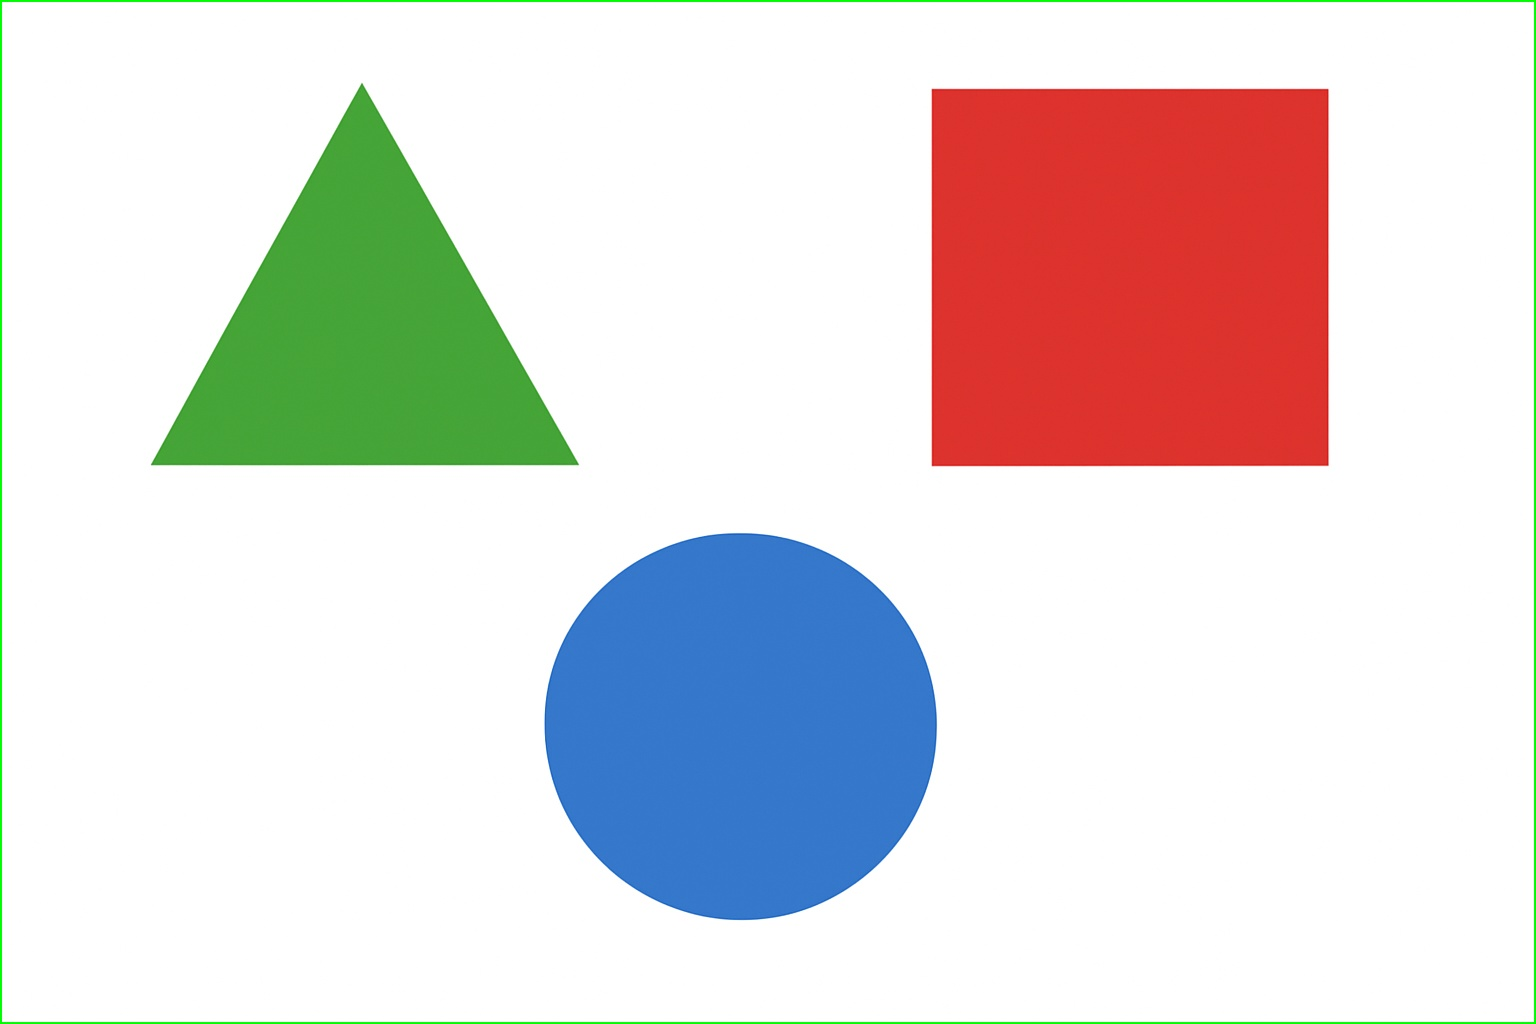
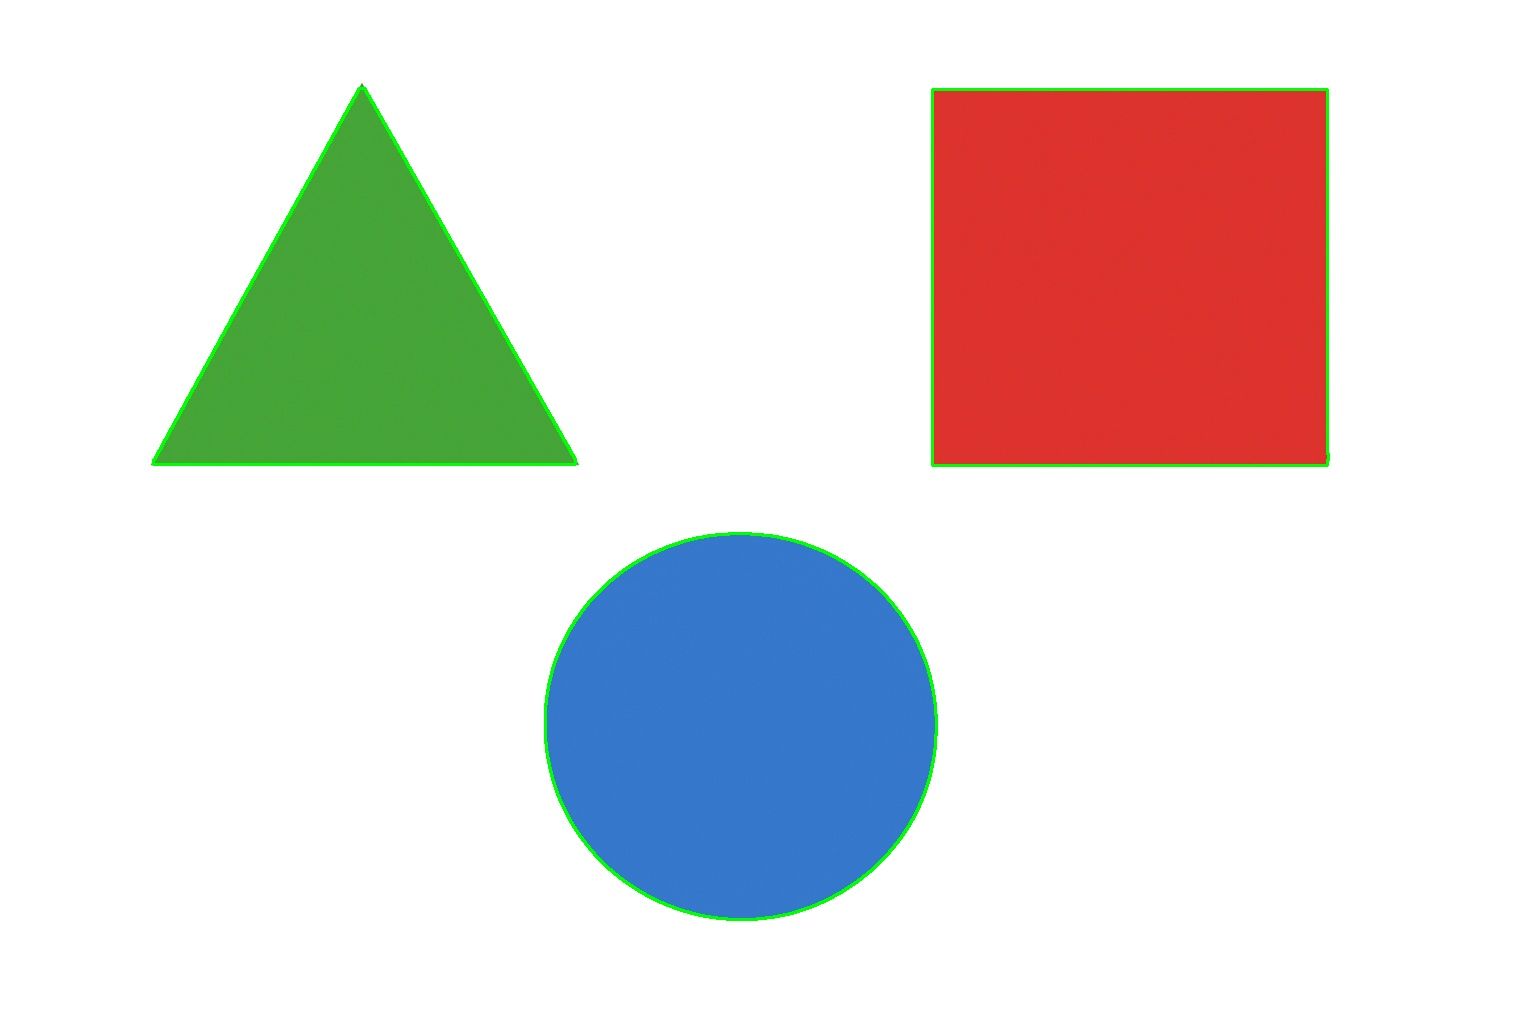
Image recognizion

diff --git a/app-fallback-openAI - 10.11.2025.py b/app-fallback-openAI - 10.11.2025.py
@@ -42,27 +42,39 @@ def upload():
     # file.read() -> Citește tot conținutul fișierului în memorie, sub formă de bytes (un șir binar, adică 0 și 1). file.read()
     # np.frombuffer(..., np.uint8) -> Transformă acei bytes într-un vector NumPy de tip uint8 (numere întregi între 0 și 255). Acum avem o reprezentare numerică a datelor imaginii, dar încă nu este o imagine 2D — doar o listă lungă de numere.
     # cv2.imdecode(..., cv2.IMREAD_COLOR) -> OpenCV ia vectorul de date binare (array-ul de mai sus) și îl decodează într-o imagine color (matrice 3D de pixeli).
-    img = cv2.imdecode(np.frombuffer(file.read(), np.uint8), cv2IMREAD_COLOR)
+    img = cv2.imdecode(np.frombuffer(file.read(), np.uint8), cv2.IMREAD_COLOR)
+    
+    # 10.11.2025 - imbunatatire cod
 
-    # Fallback OpenCV Transformă poza color într-o poză alb-negru
-    gray = cv2.cvtColor(img, cv2.COLOR_BGR2GRAY)
-    # cv2.threshold() compară fiecare pixel din imagine cu o valoare numită prag (threshold).
-    #  gray – imaginea de intrare (alb-negru)
-    # 127 – pragul de tăiere dacă valoarea < 127 →  pixel devine 0 (negru) altfel →  pixel devine 255 (alb)
-    # 255 – valoarea de atribuit pixelilor mai mari decât pragul
-    # cv2.THRESH_BINARY – tipul de prag (binar simplu)
-    _, thresh = cv2.threshold(gray, 127, 255, cv2.THRESH_BINARY)
+    # Convertim imaginea în HSV pentru a separa mai bine culorile
+    hsv = cv2.cvtColor(img, cv2.COLOR_BGR2HSV)
 
-    # cv2.RETR_EXTERNAL — modul de extragere a contururilor.
-    # RETR_EXTERNAL → ia doar contururile exterioare (nu și cele interioare, cum ar fi găurile din litera „O”).
-    # cv2.CHAIN_APPROX_SIMPLE — metoda de simplificare a conturului.
-    # Reduce numărul de puncte din contur, păstrând forma generală.
-    # Fără asta (cv2.CHAIN_APPROX_NONE), conturul ar avea fiecare pixel inclus (mult mai mare și inutil).
+    # Definim gamele de culori pentru roșu, verde, albastru
+    lower_red1 = np.array([0, 100, 100])
+    upper_red1 = np.array([10, 255, 255])
+    lower_red2 = np.array([160, 100, 100])
+    upper_red2 = np.array([179, 255, 255])
+    mask_red = cv2.add(cv2.inRange(hsv, lower_red1, upper_red1),
+                    cv2.inRange(hsv, lower_red2, upper_red2))
 
-    # contours  → o listă de contururi, unde fiecare contur este un array de puncte (coordonate x,y).
-    # _         → o structură de ierarhie (nu ne interesează aici).
-    contours, _ = cv2.findContours(thresh, cv2.RETR_EXTERNAL, cv2.CHAIN_APPROX_SIMPLE)
+    lower_green = np.array([35, 100, 100])
+    upper_green = np.array([85, 255, 255])
+    mask_green = cv2.inRange(hsv, lower_green, upper_green)
 
+    lower_blue = np.array([90, 100, 100])
+    upper_blue = np.array([130, 255, 255])
+    mask_blue = cv2.inRange(hsv, lower_blue, upper_blue)
+
+    # Combinăm toate măștile
+    mask_total = cv2.bitwise_or(mask_red, cv2.bitwise_or(mask_green, mask_blue))
+
+    # Curățăm zgomotul cu morfologie
+    mask_total = cv2.morphologyEx(mask_total, cv2.MORPH_OPEN, np.ones((5, 5), np.uint8))
+
+    # Găsim contururile pe masca totală
+    contours, _ = cv2.findContours(mask_total, cv2.RETR_EXTERNAL, cv2.CHAIN_APPROX_SIMPLE)
+
+    
     # Creează un dicționar Python pentru a număra fiecare tip de formă.
     shapes = {"triangle": 0, "square": 0, "circle": 0}
     
@@ -111,4 +123,4 @@ def upload():
     })
 
 if __name__ == "__main__":
-    app.run(debug=True, port=8000)
+    app.run(debug=True, port=9000)

diff --git a/app.py b/app.py
@@ -2,20 +2,17 @@ from flask import Flask, request, jsonify, render_template
 import cv2
 import numpy as np
 import os
-import base64
-from openai import OpenAI
 
 app = Flask(__name__)
 UPLOAD_FOLDER = "uploads"
 os.makedirs(UPLOAD_FOLDER, exist_ok=True)
 
-# Incarcă cheia OpenAI din mediu
-client = OpenAI(api_key=os.getenv("OPENAI_API_KEY"))
-
+# Ruta principală – pagina HTML
 @app.route("/")
 def index():
     return render_template("index.html")
 
+# Endpoint pentru upload și procesare imagine
 @app.route("/upload", methods=["POST"])
 def upload():
     file = request.files.get("image")
@@ -25,12 +22,15 @@ def upload():
     # Citește imaginea
     img = cv2.imdecode(np.frombuffer(file.read(), np.uint8), cv2.IMREAD_COLOR)
 
-    # Fallback local OpenCV
+    # Conversie în gri + binarizare
     gray = cv2.cvtColor(img, cv2.COLOR_BGR2GRAY)
     _, thresh = cv2.threshold(gray, 127, 255, cv2.THRESH_BINARY)
+
+    # Detectare contururi
     contours, _ = cv2.findContours(thresh, cv2.RETR_EXTERNAL, cv2.CHAIN_APPROX_SIMPLE)
 
     shapes = {"triangle": 0, "square": 0, "circle": 0}
+
     for cnt in contours:
         approx = cv2.approxPolyDP(cnt, 0.04 * cv2.arcLength(cnt, True), True)
         if len(approx) == 3:
@@ -39,33 +39,19 @@ def upload():
             shapes["square"] += 1
         else:
             shapes["circle"] += 1
+ 
+        # Desenează conturul pe imagine
         cv2.drawContours(img, [cnt], 0, (0, 255, 0), 2)
 
+    # Salvează imaginea procesată
     save_path = os.path.join(UPLOAD_FOLDER, "result.jpg")
     cv2.imwrite(save_path, img)
 
-    # Dacă ai cheie OpenAI, trimite imaginea la GPT-4V
-    gpt_result = None
-    if client.api_key:
-        try:
-            with open(save_path, "rb") as f:
-                image_bytes = f.read()
-            response = client.chat.completions.create(
-                model="gpt-4o-mini",  # sau gpt-4v dacă ai acces
-                messages=[
-                    {"role": "system", "content": "Ești un profesor care recunoaște forme geometrice din imagini."},
-                    {"role": "user", "content": "Numără câte triunghiuri, pătrate și cercuri sunt în această imagine.", "image": image_bytes}
-                ]
-            )
-            gpt_result = response.choices[0].message.content
-        except Exception as e:
-            gpt_result = f"OpenAI fallback error: {str(e)}"
-
     return jsonify({
         "shapes": shapes,
-        "processed_image": save_path,
-        "gpt_result": gpt_result
+        "processed_image": save_path
     })
+
 
 if __name__ == "__main__":
     app.run(debug=True, port=8080)
